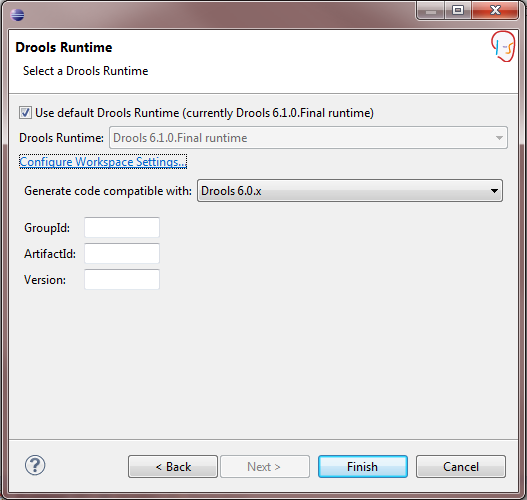
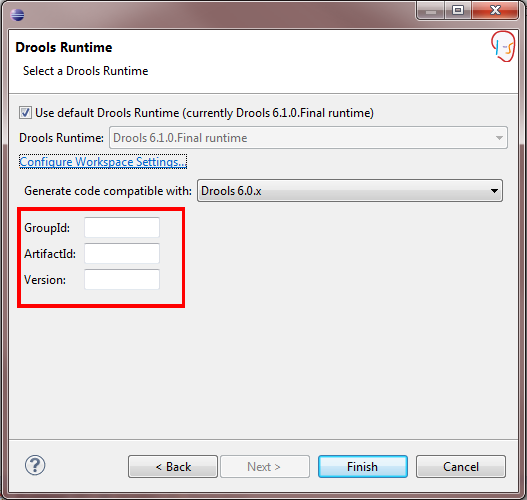
Specify Maven IDs!

Changed region(s): [[0.0304, 0.39, 0.3643, 0.63]]

diff --git a/lectures/lsp/030_install_drools.md b/lectures/lsp/030_install_drools.md
@@ -51,7 +51,7 @@ title: Installing Drools
    * Select the created Drools Runtime and click "OK".
    ![Select runtime](images/addedruntime.png)
    
-   * Click "Finish" to create the project.
+   * Enter a `GroupId`, an `ArtifactId`, and a `Version` for your project. You may choose arbitrary non-empty values. Afterwards, click "Finish" to create the project.
    ![Finish](images/finish.png)
 
    * Open the class that contains the main method. It is located in the package `com.sample` and has the same name as the project.
